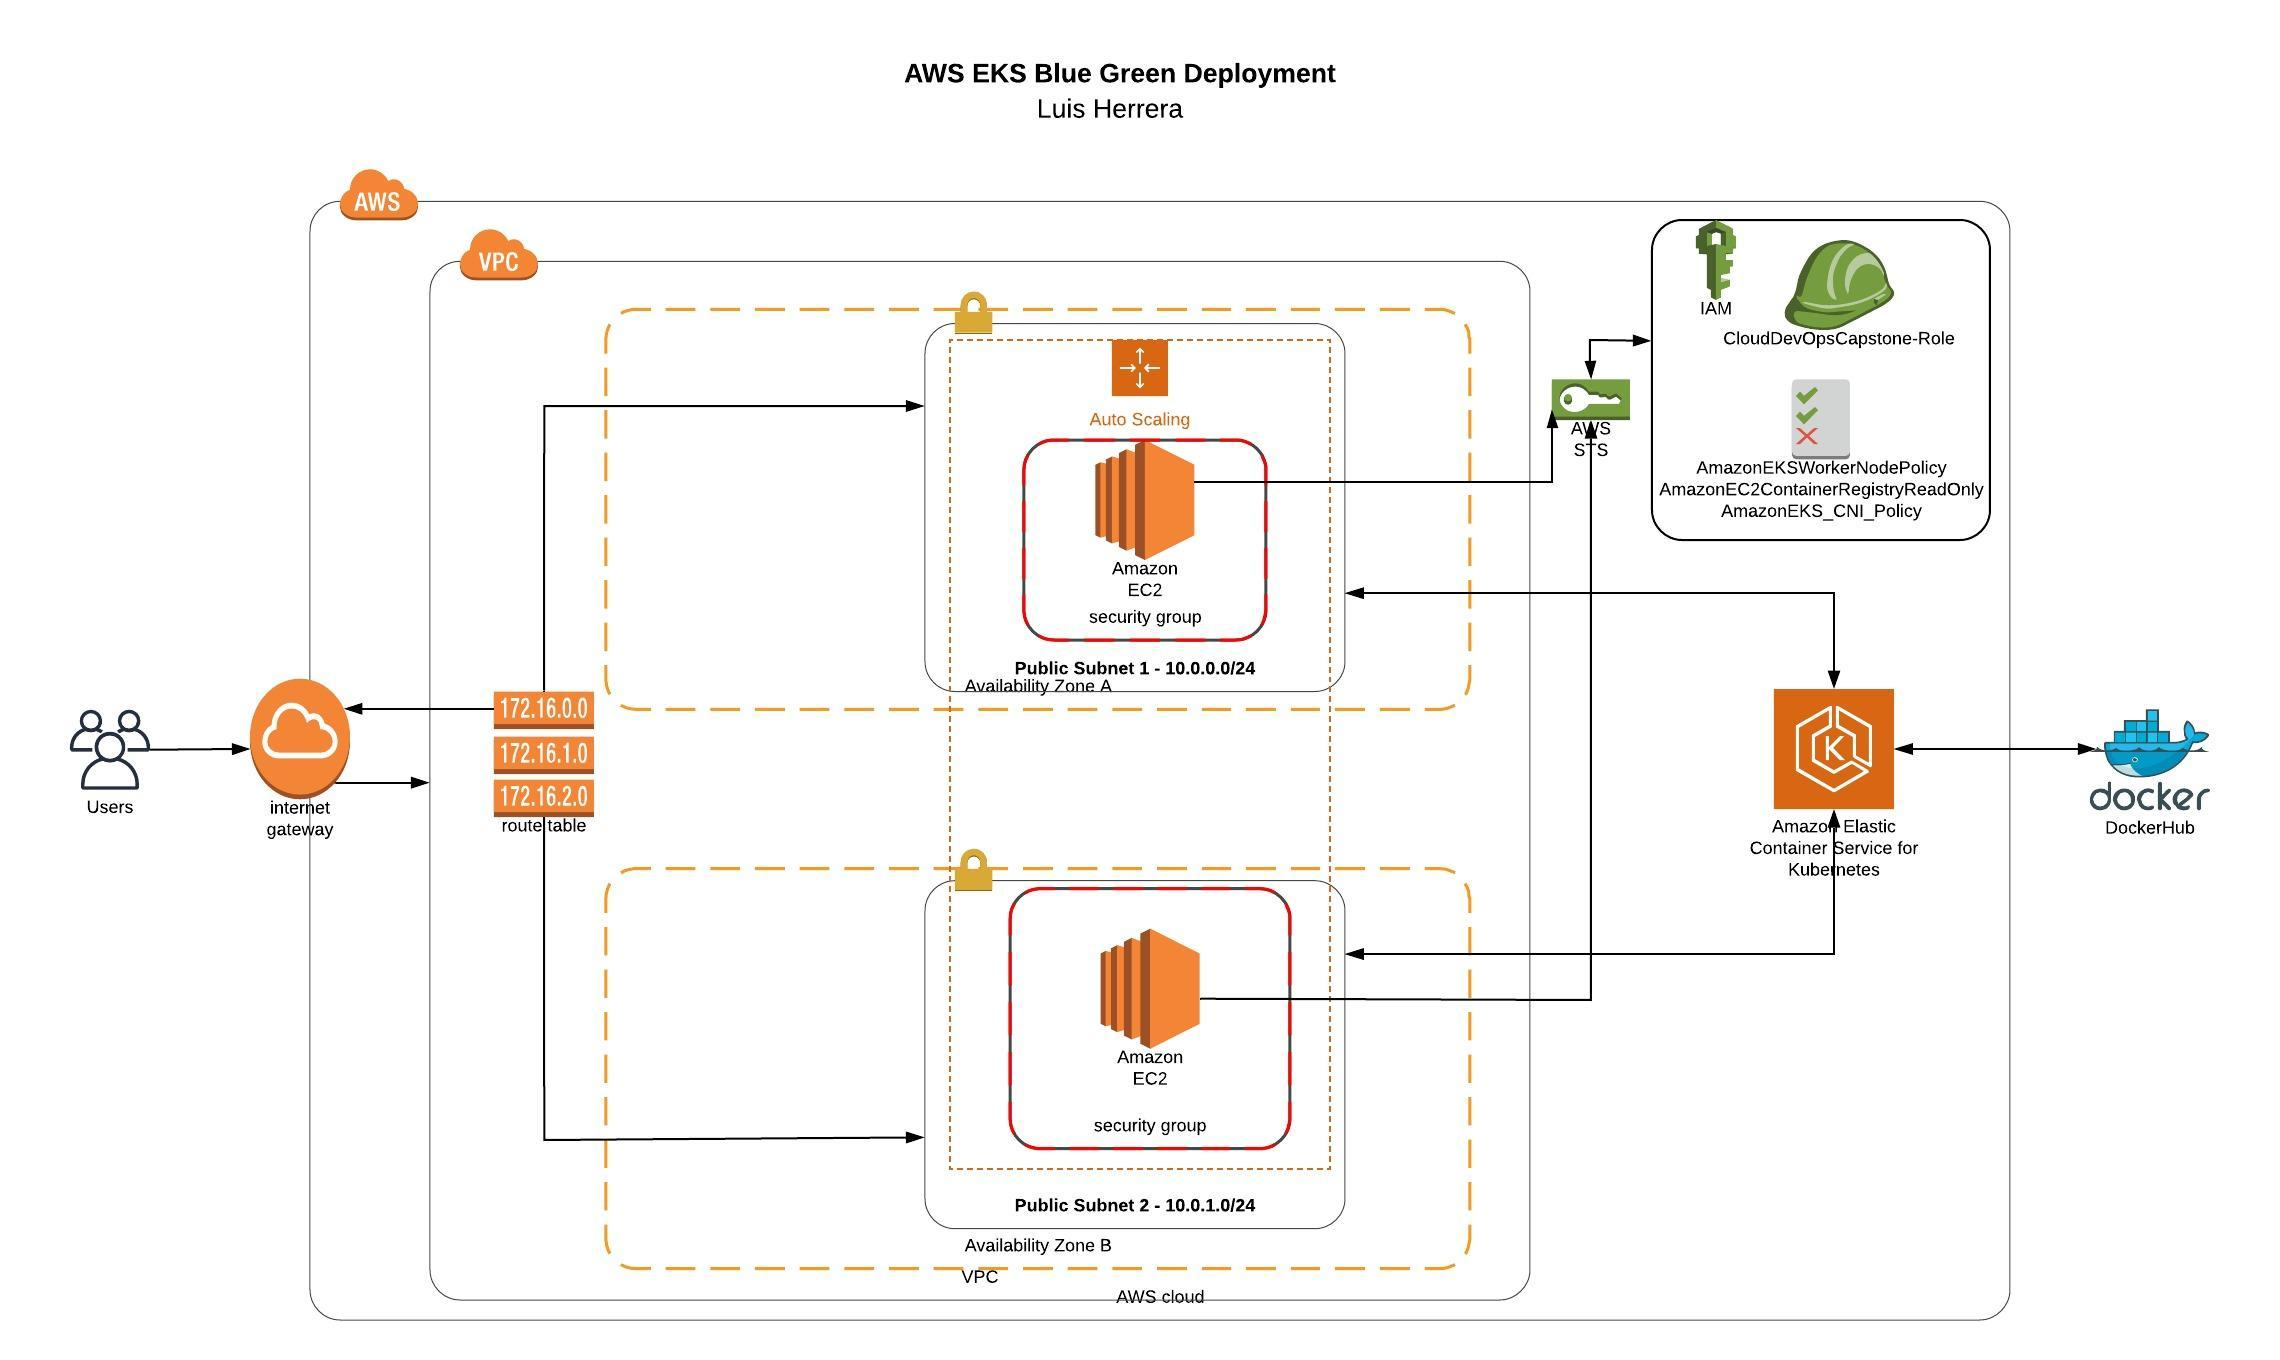
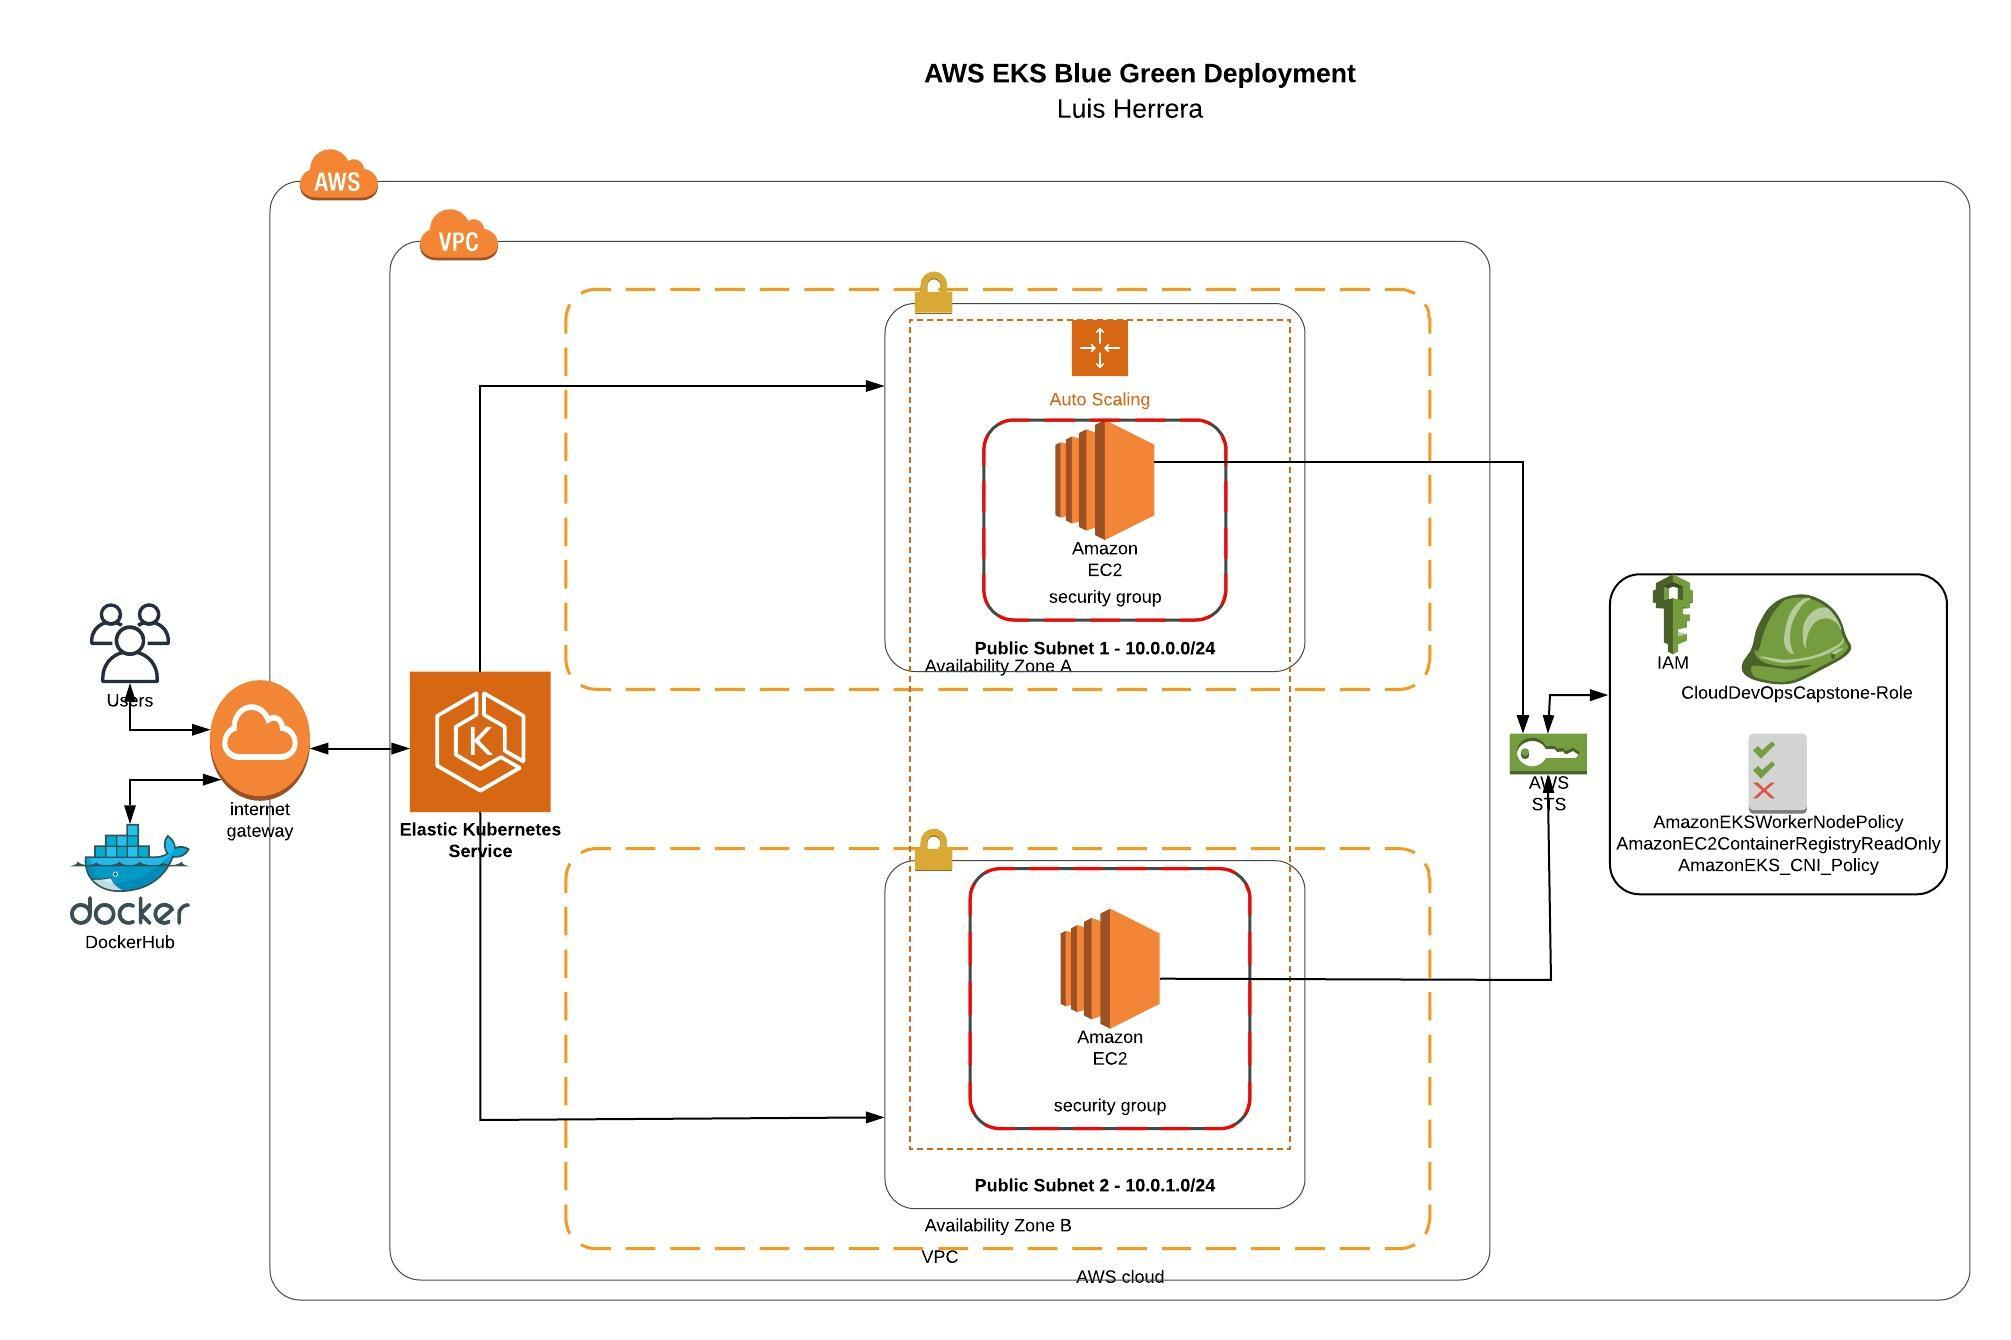
updates aws diagram

diff --git a/README.md b/README.md
@@ -1,6 +1,6 @@
 ## AWS Elastic Kubernetes Service - Blue Green Deployment
 
-![img-diagram](diagram/diagram_capston_nanodegree.jpeg) 
+![img-diagram](diagram/diagram_capston_nanodegree88.jpeg) 
 
 In this project you will apply the skills and knowledge which were developed throughout the Cloud DevOps Nanodegree program. These include:
 
